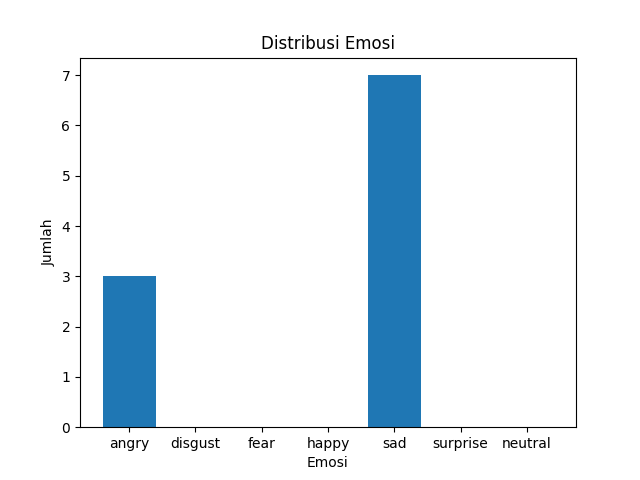
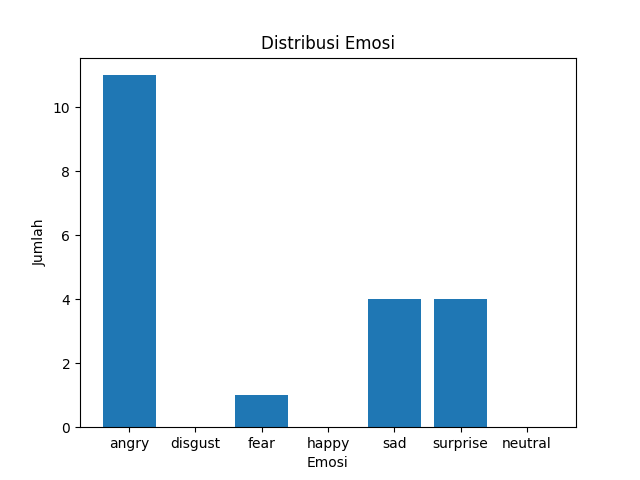
baru

diff --git a/videotester.py b/videotester.py
@@ -25,9 +25,12 @@ emotion_counts = {'angry': 0, 'disgust': 0, 'fear': 0, 'happy': 0, 'sad': 0, 'su
 # Daftar emosi
 emotions = ('angry', 'disgust', 'fear', 'happy', 'sad', 'surprise', 'neutral')
 
+# Menunggu pengguna menekan tombol Enter
+# input("Tekan Enter untuk memulai deteksi emosi...")
+
 # Mengambil 10 ekspresi wajah
 expressions_captured = 0
-while expressions_captured < 10:
+while expressions_captured < 20:
     # Membaca frame dari kamera
     ret, test_img = cap.read()
     if not ret:
@@ -67,7 +70,7 @@ while expressions_captured < 10:
         break
 
     # Cek apakah sudah terdeteksi 10 ekspresi wajah
-    if sum(emotion_counts.values()) == 10:
+    if sum(emotion_counts.values()) == 20:
         break
 
 # Menutup kamera video dan jendela tampilan
